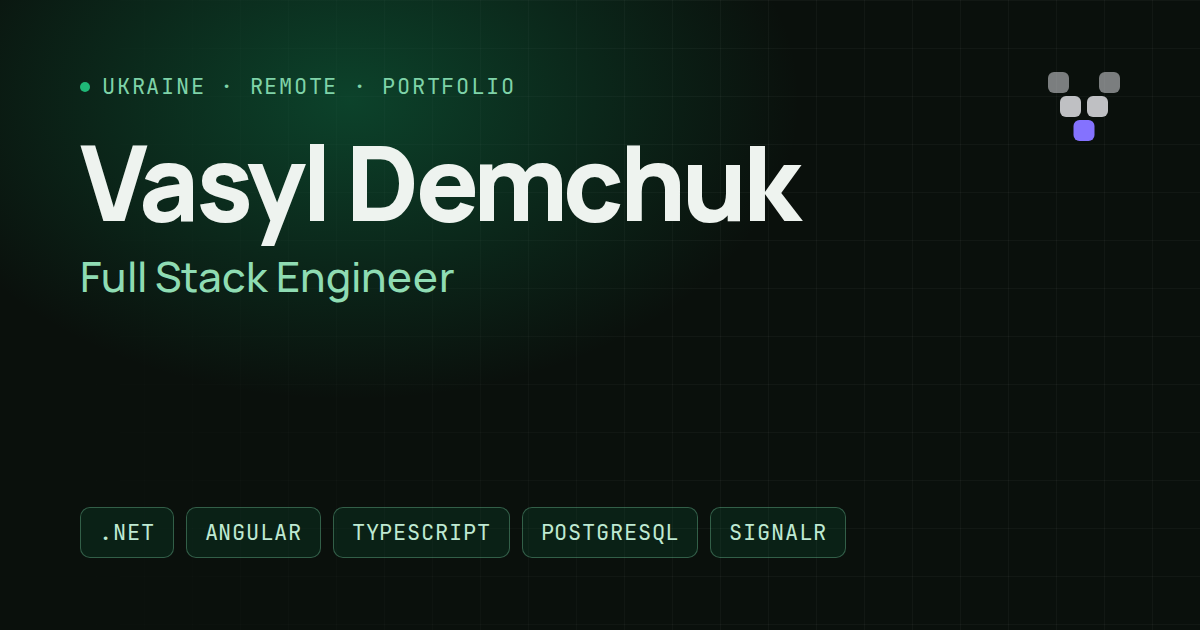
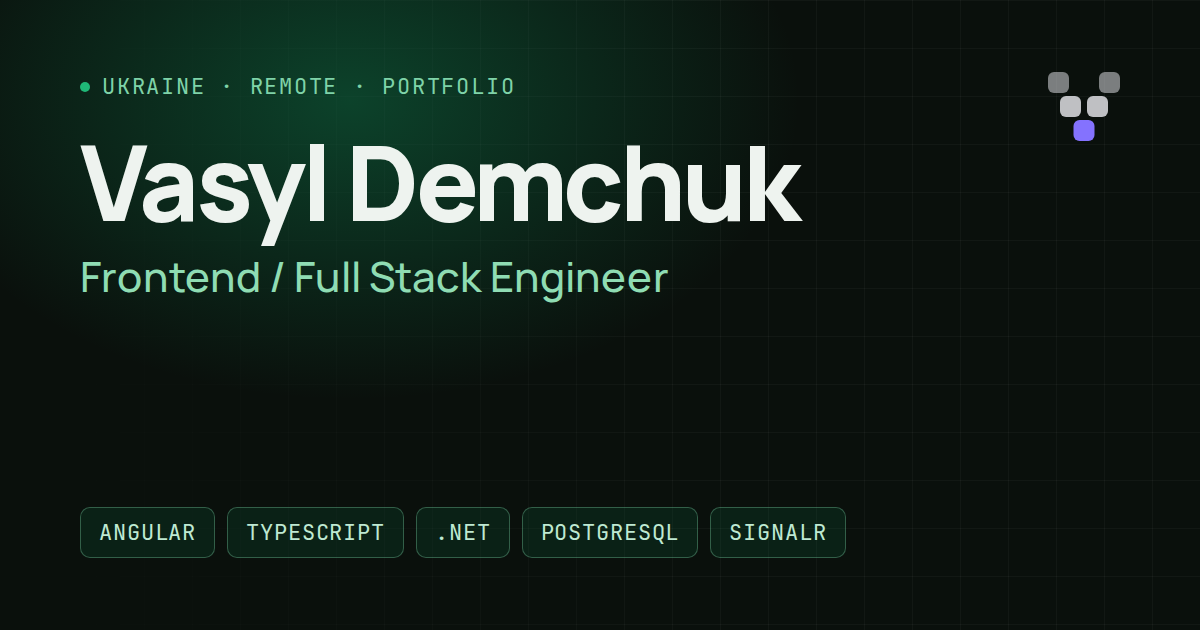
Use Frontend / Full Stack Engineer as the headline title

Changed region(s): [[0.0925, 0.3921, 0.555, 0.4825], [0.0617, 0.8143, 0.4008, 0.8746]]

diff --git a/src/index.html b/src/index.html
@@ -2,27 +2,27 @@
 <html lang="uk" data-theme="dark">
   <head>
     <meta charset="utf-8" />
-    <title>Vasyl Demchuk — Full Stack Engineer</title>
+    <title>Vasyl Demchuk — Frontend / Full Stack Engineer</title>
     <base href="/" />
     <meta name="viewport" content="width=device-width, initial-scale=1, viewport-fit=cover" />
-    <meta name="description" content="Vasyl Demchuk, Full Stack Engineer: .NET, Angular, TypeScript, PostgreSQL, SignalR. Portfolio, experience and pet projects." />
+    <meta name="description" content="Vasyl Demchuk, Frontend / Full Stack Engineer: Angular, TypeScript, .NET, PostgreSQL, SignalR. Experience, side projects and CV." />
     <meta name="theme-color" content="#0a100c" />
-    <meta property="og:title" content="Vasyl Demchuk — Full Stack Engineer" />
+    <meta property="og:title" content="Vasyl Demchuk — Frontend / Full Stack Engineer" />
     <meta property="og:description" content=".NET, Angular, TypeScript, PostgreSQL, SignalR. Experience and pet projects." />
     <meta property="og:type" content="website" />
     <meta property="og:image" content="og.png" />
     <meta property="og:image:width" content="1200" />
     <meta property="og:image:height" content="630" />
-    <meta property="og:image:alt" content="Vasyl Demchuk, Full Stack Engineer: .NET, Angular, TypeScript, PostgreSQL, SignalR" />
+    <meta property="og:image:alt" content="Vasyl Demchuk, Frontend / Full Stack Engineer: Angular, TypeScript, .NET, PostgreSQL, SignalR" />
     <meta name="twitter:card" content="summary_large_image" />
-    <meta name="twitter:title" content="Vasyl Demchuk — Full Stack Engineer" />
+    <meta name="twitter:title" content="Vasyl Demchuk — Frontend / Full Stack Engineer" />
     <meta name="twitter:image" content="og.png" />
     <script type="application/ld+json">
       {
         "@context": "https://schema.org",
         "@type": "Person",
         "name": "Vasyl Demchuk",
-        "jobTitle": "Full Stack Engineer",
+        "jobTitle": "Frontend / Full Stack Engineer",
         "address": { "@type": "PostalAddress", "addressCountry": "UA" },
         "knowsAbout": [".NET", "C#", "Angular", "TypeScript", "RxJS", "PostgreSQL", "TimescaleDB", "Redis", "SignalR", "Node.js"],
         "alumniOf": { "@type": "CollegeOrUniversity", "name": "Ternopil Ivan Puluj National Technical University" },

diff --git a/src/app/app.html b/src/app/app.html
@@ -43,7 +43,7 @@
     </ul>
     <p class="hero__lead">{{ t().hero.lead }}</p>
     <div class="hero__tags">
-      @for (s of ['.NET', 'Angular', 'TypeScript', 'PostgreSQL', 'SignalR']; track s) {
+      @for (s of ['Angular', 'TypeScript', '.NET', 'PostgreSQL', 'SignalR']; track s) {
         <span vdBadge variant="accent">{{ s }}</span>
       }
     </div>

diff --git a/src/app/data.ts b/src/app/data.ts
@@ -38,8 +38,8 @@ export const PROFILE = {
   linkedin: 'https://www.linkedin.com/in/vasyl-demchuk-152148255/',
   cv: 'Vasyl_Demchuk_Full_Stack_Engineer_CV.pdf',
   title: {
-    uk: 'Full Stack інженер',
-    en: 'Full Stack Engineer',
+    uk: 'Frontend / Full Stack інженер',
+    en: 'Frontend / Full Stack Engineer',
   } satisfies L10n,
 };
 
